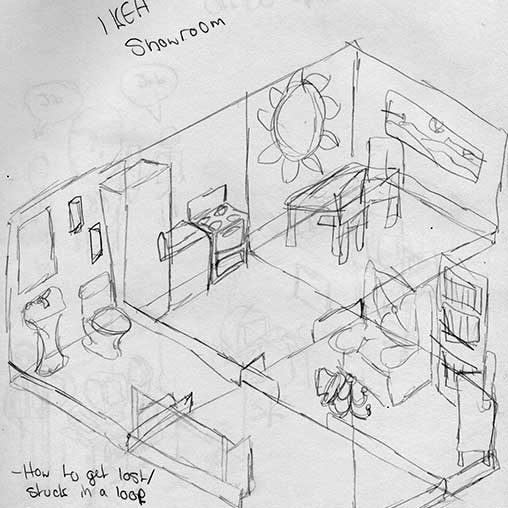
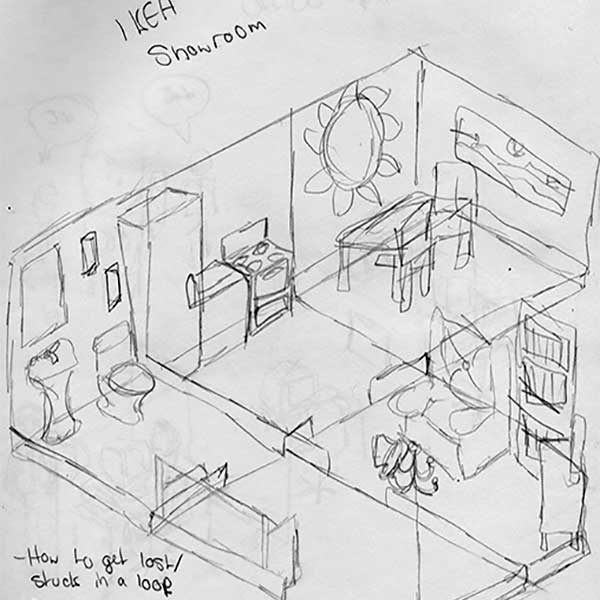
Attempting to change embed image alignments
Changed text shadows to match page colours, heading hierarchy for contact section,  added more sketches, made a smaller version of isometric for smaller loading screens,

diff --git a/isometric-illustration.html b/isometric-illustration.html
@@ -7,8 +7,11 @@ layout: projects
     <h2 itemprop="name" class="gutter-1-2 pad-t-1-2 push-1-2">Isometric Illustration</h2>
   </div>
   <div class="grid">
-    <div class="unit unit-xs-1 unit-s-1 unit-m-1 unit-l-1 unit-xl-1">
+    <div class="unit unit-xs-hidden unit-s-hidden unit-m-1 unit-l-1 unit-xl-1">
       <img itemprop="image" class="img-flex image island-1-8" src="{{site.baseurl}}/images/isometric.jpg" alt="An isometric illustration of a D&amp;D campaign">
+    </div>
+    <div class="unit unit-xs-1 unit-s-1 unit-m-hidden unit-l-hidden unit-xl-hidden">
+      <a class="block" href="{{site.baseurl}}/images/isometric.jpg"><img itemprop="image" class="img-flex image island-1-8" src="{{site.baseurl}}/images/small-isometric.jpg" alt="A stroke poster highlighting what a stroke is, where a stroke can happen, and signs of a stroke"></a>
     </div>
     <div class="unit unit-xs-1 unit-s-1 unit-m-1 unit-l-1 unit-xl-1 max-length">
       <p itemprop="description" class="white-text gutter-1-2 push pad-t-1-2">Inspired by my love of RPGs and D&amp;D campaigns. This is an illustrated process of going on an adventure where you see new things, meet new people, and travel the land.</p>
@@ -17,7 +20,7 @@ layout: projects
     <div class="unit unit-xs-hidden unit-s-hidden unit-m-hidden unit-l-1-3 unit-xl-1-3">
       <figure>
         <div class="embed embed-1by1">
-          <img itemprop="image" class="img-flex image island-1-8 embed-item" src="https://via.placeholder.com/800x500">
+          <img itemprop="image" class="island-1-8 embed-item" src="{{site.baseurl}}/images/iso-sketch-1.jpg" alt="An isometric sketch of a sushi bar">
         </div>
         <figcaption class="gutter-1-2 micro">Alternate idea</figcaption>
       </figure>
@@ -25,7 +28,7 @@ layout: projects
     <div class="unit unit-xs-1 unit-s-1 unit-m-1-2 unit-l-hidden unit-xl-hidden">
       <figure>
         <div class="embed embed-185by100">
-          <img itemprop="image" class="img-flex image island-1-8 embed-item" src="https://via.placeholder.com/800x500">
+          <img itemprop="image" class="island-1-8 embed-item pad-t-0" src="{{site.baseurl}}/images/iso-sketch-1.jpg" alt="An isometric sketch of a sushi bar">
         </div>
         <figcaption class="gutter-1-2 micro">Alternate idea</figcaption>
       </figure>
@@ -34,7 +37,7 @@ layout: projects
     <div class="unit unit-xs-hidden unit-s-hidden unit-m-hidden unit-l-1-3 unit-xl-1-3">
       <figure>
         <div class="embed embed-1by1">
-          <img itemprop="image" class="img-flex image island-1-8 embed-item" src="{{site.baseurl}}/images/iso-sketch-2.jpg" alt="An isometric sketch of an IKEA layout">
+          <img itemprop="image" class="island-1-8 embed-item" src="{{site.baseurl}}/images/iso-sketch-2.jpg" alt="An isometric sketch of an IKEA showroom layout">
         </div>
         <figcaption class="gutter-1-2 micro">Another alternate early idea of an IKEA showroom</figcaption>
       </figure>
@@ -42,7 +45,7 @@ layout: projects
     <div class="unit unit-xs-1 unit-s-1 unit-m-1-2 unit-l-hidden unit-xl-hidden">
       <figure>
         <div class="embed embed-185by100">
-          <img itemprop="image" class="img-flex image island-1-8 embed-item pin-c" src="{{site.baseurl}}/images/iso-sketch-2.jpg" alt="An isometric sketch of an IKEA showroom layout">
+          <img itemprop="image" class="island-1-8 embed-item pin-c" src="{{site.baseurl}}/images/iso-sketch-2.jpg" alt="An isometric sketch of an IKEA showroom layout">
         </div>
         <figcaption class="gutter-1-2 micro">Another alternate early idea of an IKEA showroom</figcaption>
       </figure>
@@ -51,7 +54,7 @@ layout: projects
     <div class="unit unit-xs-hidden unit-s-hidden unit-m-hidden unit-l-1-3 unit-xl-1-3">
       <figure>
         <div class="embed embed-1by1">
-          <img itemprop="image" class="img-flex image island-1-8 embed-item" src="https://via.placeholder.com/800x500">
+          <img itemprop="image" class="island-1-8 embed-item" src="{{site.baseurl}}/images/iso-sketch-3.jpg" alt="Personal comments with my sketches to consider when laying out the content">
         </div>
         <figcaption class="gutter-1-2 micro">Notes before creation</figcaption>
       </figure>
@@ -59,7 +62,7 @@ layout: projects
     <div class="unit unit-xs-1 unit-s-1 unit-m-1 unit-l-hidden unit-xl-hidden">
       <figure>
         <div class="embed embed-185by100">
-          <img itemprop="image" class="img-flex image island-1-8 embed-item" src="https://via.placeholder.com/800x500">
+          <img itemprop="image" class="island-1-8 embed-item pin-bc" src="{{site.baseurl}}/images/iso-sketch-3.jpg" alt="Personal comments with my sketches to consider when laying out the content">
         </div>
         <figcaption class="gutter-1-2 micro">Notes before creation</figcaption>
       </figure>

diff --git a/index.html b/index.html
@@ -11,7 +11,7 @@ layout: default
   <div class="grid gutter-1-8">
     <div class="unit unit-xs-1 unit-s-1 unit-m-1-2 unit-l-1-3 unit-xl-1-3 island-1-8 container">
       <div class="embed embed-16by9">
-        <a href="{{site.baseurl}}/parallax/"><img class="img-flex image embed-item" src="https://via.placeholder.com/800x500"></a>
+        <a href="{{site.baseurl}}/parallax/"><img class="img-flex image embed-item pin-c" src="https://via.placeholder.com/800x500"></a>
         <div class="middle">
           <div class="text-center text">
             <p>Parallax</p>
@@ -21,7 +21,7 @@ layout: default
     </div>
     <div class="unit unit-xs-1 unit-s-1 unit-m-1-2 unit-l-1-3 unit-xl-1-3 island-1-8 container">
       <div class="embed embed-16by9">
-        <a href="{{site.baseurl}}/rotoscope/"><img class="img-flex image embed-item" src="https://via.placeholder.com/800x500"></a>
+        <a href="{{site.baseurl}}/rotoscope/"><img class="img-flex image embed-item pin-c" src="https://via.placeholder.com/800x500"></a>
         <div class="middle">
           <div class="text-center text">
             <p>Rotoscope</p>
@@ -31,7 +31,7 @@ layout: default
     </div>
     <div class="unit unit-xs-1 unit-s-1 unit-m-1-2 unit-l-1-3 unit-xl-1-3 island-1-8 container">
       <div class="embed embed-16by9">
-        <a href="{{site.baseurl}}/walk-cycle/"><img class="img-flex image embed-item" src="https://via.placeholder.com/800x500"></a>
+        <a href="{{site.baseurl}}/walk-cycle/"><img class="img-flex image embed-item pin-c" src="https://via.placeholder.com/800x500"></a>
         <div class="middle">
           <div class="text-center text">
             <p>Walk Cycle</p>
@@ -41,7 +41,7 @@ layout: default
     </div>
     <div class="unit unit-xs-1 unit-s-1 unit-m-1-2 unit-l-1-3 unit-xl-1-3 island-1-8 container">
       <div class="embed embed-16by9">
-        <a href="{{site.baseurl}}/stroke-poster/"><img class="img-flex image embed-item" src="{{site.baseurl}}/images/small-poster.png" alt="A stroke poster highlighting what a stroke is, where a stroke can happen, and signs of a stroke"></a>
+        <a href="{{site.baseurl}}/stroke-poster/"><img class="img-flex image embed-item pin-c" src="{{site.baseurl}}/images/small-poster.png" alt="A stroke poster highlighting what a stroke is, where a stroke can happen, and signs of a stroke"></a>
         <div class="middle">
           <div class="text-center text">
             <p>Stroke Poster</p>
@@ -51,7 +51,7 @@ layout: default
     </div>
     <div class="unit unit-xs-1 unit-s-1 unit-m-1-2 unit-l-1-3 unit-xl-1-3 island-1-8 container">
       <div class="embed embed-16by9">
-        <a href="{{site.baseurl}}/isometric-illustration/"><img class="img-flex image embed-item" src="{{site.baseurl}}/images/isometric.jpg" alt="An isometric illustration of a D&amp;D campaign"></a>
+        <a href="{{site.baseurl}}/isometric-illustration/"><img class="img-flex image embed-item pin-c" src="{{site.baseurl}}/images/small-isometric.jpg" alt="An isometric illustration of a D&amp;D campaign"></a>
         <div class="middle">
           <div class="text-center text">
             <p>Isometric Illustration</p>
@@ -61,7 +61,7 @@ layout: default
     </div>
     <div class="unit unit-xs-1 unit-s-1 unit-m-1-2 unit-l-1-3 unit-xl-1-3 island-1-8 container">
       <div class="embed embed-16by9">
-        <a href="{{site.baseurl}}/karen-douglas-consulting/"><img class="img-flex image embed-item" src="https://via.placeholder.com/800x500"></a>
+        <a href="{{site.baseurl}}/karen-douglas-consulting/"><img class="img-flex image embed-item pin-c" src="https://via.placeholder.com/800x500"></a>
         <div class="middle">
           <div class="text-center text">
             <p>Karen Douglas Consulting</p>

diff --git a/_includes/css/main.css b/_includes/css/main.css
@@ -214,7 +214,7 @@ a.brand-shadow-a:hover {
   }
 
   a.brand-shadow-a:hover {
-    text-shadow: -1.5px 0  #FF0000, 1.5px 0 #00FFFF;
+    text-shadow: -1.5px 0  #6ebcdb, 1.5px 0 #ef464c;
   }
 
 }
@@ -226,7 +226,7 @@ a.brand-shadow-a:hover {
   }
 
   a.brand-shadow-a:hover {
-    text-shadow: -1.75px 0  #FF0000, 1.75px 0 #00FFFF;
+    text-shadow: -1.75px 0  #6ebcdb, 1.75px 0 #ef464c;
   }
 
 }
@@ -234,7 +234,7 @@ a.brand-shadow-a:hover {
 @media only screen and (min-width: 90em) {
 
   a.brand-shadow-a:hover {
-    text-shadow: -2px 0  #FF0000, 2px 0 #00FFFF;
+    text-shadow: -2px 0  #6ebcdb, 2px 0 #ef464c;
   }
 
 }

diff --git a/_layouts/default.html b/_layouts/default.html
@@ -36,7 +36,7 @@
   <footer>
     <div class="white-bg gutter-1-2 pad-b">
       <div class="wrapper max-length gutter-1-2">
-        <h3 class="pad-t push-1-2" id="contact">Contact Me</h3>
+        <h4 class="pad-t push-1-2" id="contact">Contact Me</h3>
         <p class="wrapper max-length">Message me or see more my work in the links below.</p>
         <ul class ="list-group-inline push-0 mega text-center">
           <li><a href="mailto:hannah@hannahdouglas.work" itemprop="email" class="island-1-4 brand-shadow-a">Email</a></li>
